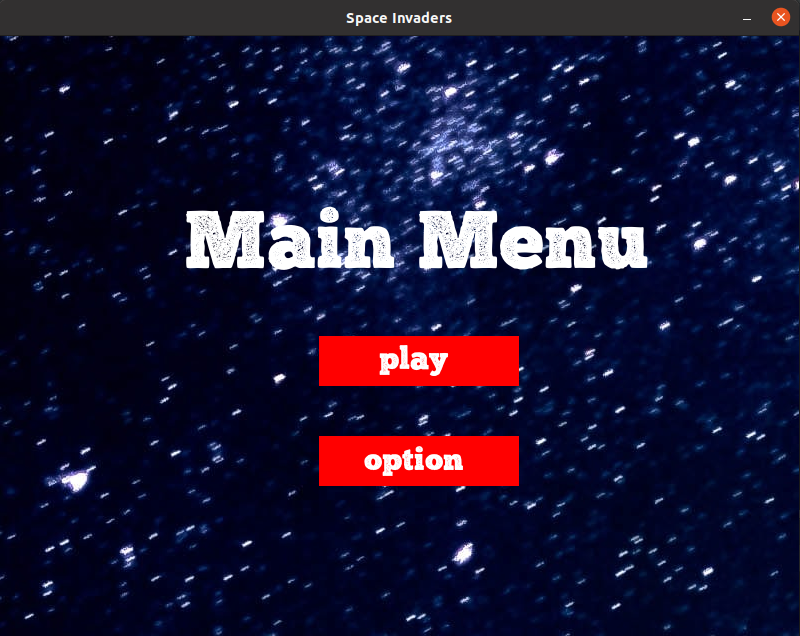
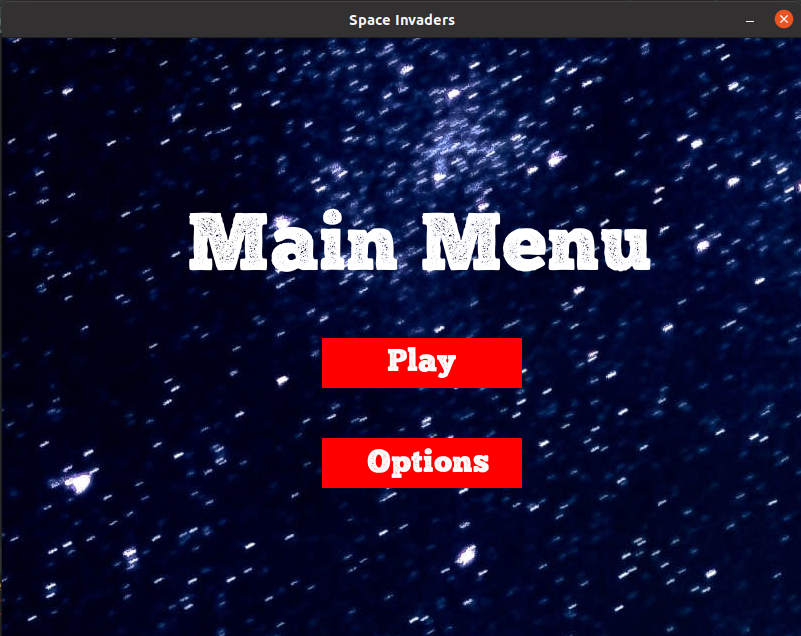
modified menu

diff --git a/main.py b/main.py
@@ -100,10 +100,10 @@ def main_menu():
         if button_2.collidepoint((mx, my)):
             if click:
                 pass
-        pygame.draw.rect(screen, (255, 0, 0), button_1)
-        draw_text('play', font, (255, 255, 255), screen, 380, 308)
-        pygame.draw.rect(screen, (255, 0, 0), button_2)
-        draw_text('option', font, (255, 255, 255), screen, 365, 410)
+        pygame.draw.rect(screen, (220, 10, 0), button_1, False, 30)
+        draw_text('Play', font, (255, 255, 255), screen, 385, 308)
+        pygame.draw.rect(screen, (220, 10, 0), button_2, False, 30)
+        draw_text('Options', font, (255, 255, 255), screen, 365, 410)
 
         click = False
 
